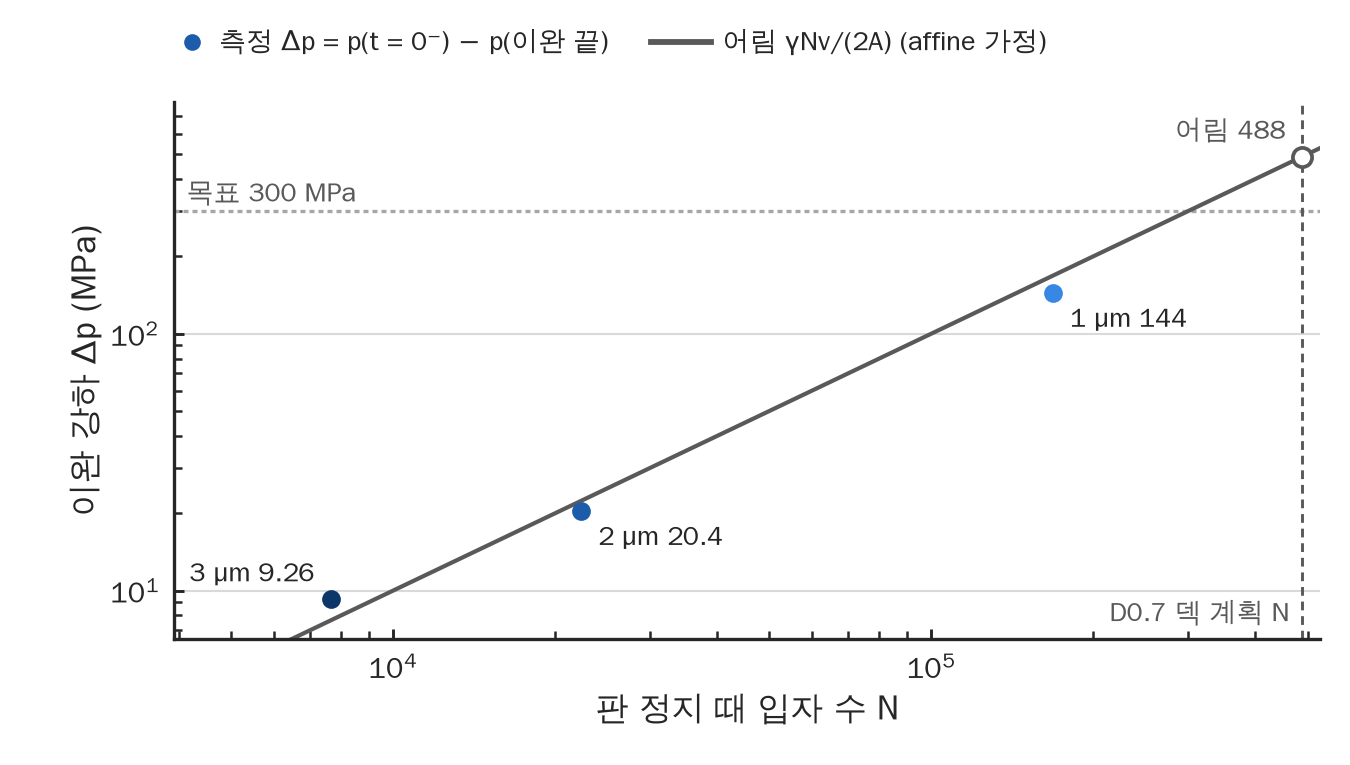
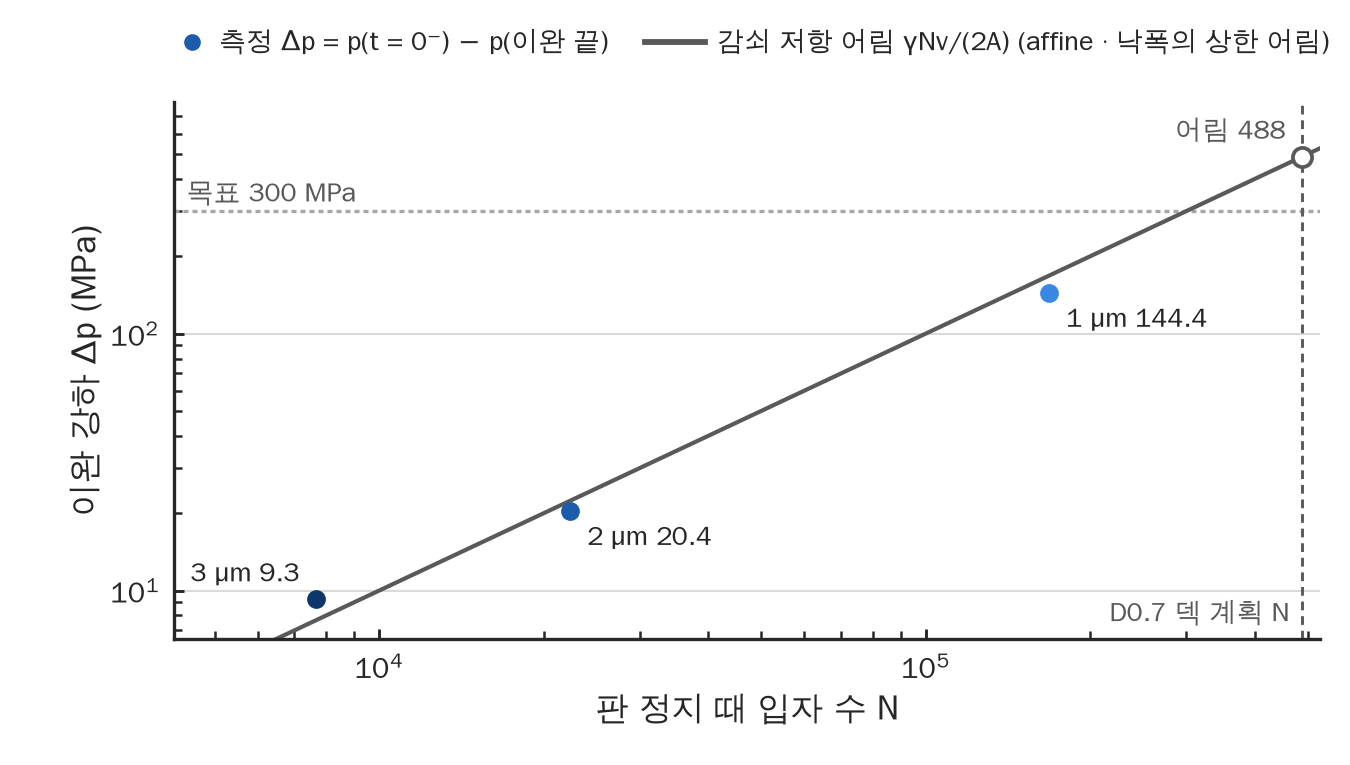
50kg Y4 draft 2: pre-attack R2 fixes — drag wording = estimate/upper bound (ledger KG50-20 · SELF-145 · KG50-04 · DEMP-01 · K50Y4-01 notes, D1 README, sheet, diag line label + one-decimal point labels), registration §1-2 prediction cited, direct-check path (compression atom dumps), D1 disclosures (Q
Claude-Session: https://claude.ai/code/session_01H191Ni4xzj9H5ftstAm7Ft

diff --git a/docs/50kg/report_y4/draft2/make_draft2_figs.py b/docs/50kg/report_y4/draft2/make_draft2_figs.py
@@ -1121,7 +1121,7 @@ def fig_p7_lit(data, meta):
 
 _NUM = r'([-+]?\d+(?:\.\d+)?(?:[eE][-+]?\d+)?)'
 _THERMO5 = re.compile(r'^\s*(\d+)\s+(\d+)\s+(\S+)\s+(\S+)\s+(\S+)\s*$')
-DIAG_EST_LABEL = '어림 γNv/(2A) (affine 가정)'
+DIAG_EST_LABEL = '감쇠 저항 어림 γNv/(2A) (affine · 낙폭의 상한 어림)'
 
 
 def _one_idx(L, pattern, what, case):
@@ -1256,7 +1256,7 @@ def fig_diag_relax_drop(data, decks, meta):
             pts[bed] = dict(n=sn['n'], dp=m['p_t0minus_MPa'] - m['p_end_MPa'], sn=sn)
     plan_beds = [b for b in R.BED_ORDER if b not in data]
     # 범위 (log10) = 점 · 점 글 · 어림 직선의 계획 점 · 목표 + 글 자리 — 고정 범위 없음
-    labs = {b: f'{b[1:]} µm {fmt_v(p["dp"], 3)}' for b, p in pts.items()}
+    labs = {b: f'{b[1:]} µm {p["dp"]:.1f}' for b, p in pts.items()}   # 본문 · 쪽 글과 같은 소수 한 자리 (사전 공격 R2-13)
     above = {b: p['dp'] > c * p['n'] for b, p in pts.items()}          # 직선 위 점 = 글 왼쪽 위 · 아래 점 = 오른쪽 아래
     x_hi, x_lo, y_hi, y_lo = [], [], [], []
     for b, p in pts.items():

diff --git a/docs/50kg/report_y4/draft2/slide_text_draft2.md b/docs/50kg/report_y4/draft2/slide_text_draft2.md
@@ -11,7 +11,7 @@
 
 | 항목 | 이 시트에서 한 것 | 쪽 |
 |---|---|---|
-| `K50Y4-02` 1.35 GPa 설명 범위 | 화면 두 줄 (물성 22 GPa 랩실 표준 / DEM 유효 입력 1.35 GPa 선행 규약) + 판정문 §4 최소 문구 그대로 (노트 · 대본 · 예상 답변) | 1 |
+| `K50Y4-02` 1.35 GPa 설명 범위 | 화면 두 줄 (물성 22 GPa 랩실 표준 / DEM 유효 입력 1.35 GPa 선행 규약) + 판정문 §4 최소 문구 그대로 (노트 · 예상 답변 · 대본은 짧은 꼴) | 1 |
 | `K50Y4-03` · `SELF-144` 선행 출처 | 선행 보고 **9쪽** (DEM 기반 복합양극 압축 모델) · "13 장" 안 씀 | 1 |
 | `K50Y4-01` 의 문구 부분 | 이완 끝을 300 MPa 상태로 부르지 않음 · 압력 도달 순간 세트 = 자료 없음 | 1 · 2 |
 | `SELF-145` 문구 | "같은 상태 비교" 안 씀 → "같은 정의 (판 고정 이완 끝) · 정적 압력은 침대마다 다름" | 1 · 2 · 6 · 7 |
@@ -21,7 +21,7 @@
 |---|---|---|
 | 1 | 첫 줄 "SE 입도를 비교하는 네 침대 — 공통 덱 규약, 입도별 시드 1" + 비교 한계 한 줄 (D1 더함) | 1쪽 ③ ① · ⑥ 대본 |
 | 2 | 가압 목표 300 MPa · 끝 상태 = 판 고정 이완 끝 · 끝 판 압력 (D1 156.2 더함) | 1쪽 ③ ② · ④ 표 · 단면 캡션 |
-| 3 | 영률 두 줄 + 판정문 §4 최소 문구 (노트 · 대본 · 예상 답변) | 1쪽 ④ 표 · ⑥ |
+| 3 | 영률 두 줄 + 판정문 §4 최소 문구 (노트 · 예상 답변 · 대본은 짧은 꼴) | 1쪽 ④ 표 · ⑥ |
 | 4 | 선행 출처 = 선행 보고 9쪽 | 1쪽 ⑥ 노트 |
 | 5 | p > 1 MPa 표시 구간 · t = 0⁻ 정지 직전 점 · ε_sphere 이름 · 로그 축 표지 · 자료 상태 | 2쪽 ④ (`p2_compaction` · `diag_relax_drop_vs_N` · 백업 `p2_relaxation`) |
 | 6 | 단면 = 2D 구 기하 합집합의 빈 영역 ↔ ε_sphere = 3D 구 부피 합 · 겹침 색 = 그리는 순서 · 벽 조각 0.068 · 0.075 %p 를 전체 겹침 오차로 넓히지 않음 | 1쪽 ④ 캡션 · ⑥ · ⑦ |
@@ -40,7 +40,7 @@
 | `KG50B-01`–`07` 원장 | 그림 · 분석 계획 · 웹앱 라벨 뒤 한 번에 (판정문 §9) · 원장 값 안 바꿈 |
 | 새 지표 | 껍질 점유 (2쪽 주) · AM 구면 캡 합집합 지도 (3쪽 주) · 전류 강조 그림 · 소산 몫 그림 (4쪽) · z 구간 전위 강하 · 소산 (6쪽) = 다음 판 |
 | D0.7 | 결과 대기 · 압축 단계 처리 = 압축 전 결정 (`KG50-20` ③) |
-| `DEMP-01` · `KG50-20` | 감쇠 저항 = 어림만 (정지 순간 입자 속도 덤프 없음) · 정적 압력을 맞춘 비교 없음 · 처리 방법 = 1저자 결정 · 등록 · Codex |
+| `DEMP-01` · `KG50-20` | 감쇠 저항 = 어림만 (정지 순간 덤프 없음 · 압축 중 50,000 step 마다의 atom 덤프 (속도 있음) 로 직접 셀 수 있으나 보관 여부 미확인) · 정적 압력을 맞춘 비교 없음 · 처리 방법 = 1저자 결정 · 등록 · Codex |
 | `KG50-04` | 질량당 감쇠 = 문구만 |
 | `SELF-145` 원장 | 문구 반영만 · open 그대로 |
 
@@ -107,7 +107,7 @@
 | 영역 · 면용량 | 50 × 50 µm 고정 영역 · 6.5 mAh/cm² |
 | SE 영률 | 물성 22 GPa (랩실 표준) |
 |  | DEM 유효 입력 1.35 GPa (선행 규약) |
-| 가압 | 목표 300 MPa → 판 고정 이완 10⁵ step · 언로딩 없음 |
+| 가압 | 목표 300 MPa → 판 고정 이완 10⁵ step · 끝 판 압력 D1 156.2 · D2 279.8 · D3 291.4 MPa · 언로딩 없음 |
 | 시드 | 입도별 1 |
 | 비교 한계 | 끝 판 압력이 침대마다 다름 — 압축 중 감쇠 저항이 판 반력에 섞임 [추정 · 2쪽] |
 
@@ -201,7 +201,7 @@
 
 `diag_relax_drop_vs_N` (새 · 붙여 넣기)
 
-> 판 고정 이완 낙폭 Δp = p(t = 0⁻, 정지 직전) − p(이완 끝) 대 입자 수 N · 점 = D1 · D2 · D3 관측 (실행 기록 정규 thermo 줄 × 1000) · 선 = affine 어림 Δp ≈ γNv/(2A) = N × 10⁻³ MPa (γ 0.5 = 압축 중 감쇠 계수 · v 0.01 = 판 속도 · A 0.0025 = 판 면적 · 덱 단위 · 입자 속도가 바닥 0 → 판 v 로 선형이라는 가정) · D0.7 표지 = 덱 계획 N 4.88 × 10⁵ 의 어림 488 MPa (측정 아님 · 가압 목표 300 MPa 위) · 관측 / 어림 = 0.86 · 0.91 · 1.21 · 감쇠 저항의 직접 측정 아님 (정지 순간 입자 속도 덤프 없음) · 판 고정 뒤 감쇠 1 × 10⁻⁵ (네 덱 같은 줄) · `DEMP-01` · `KG50-20` 열림
+> 판 고정 이완 낙폭 Δp = p(t = 0⁻, 정지 직전) − p(이완 끝) 대 입자 수 N · 점 = D1 · D2 · D3 관측 (실행 기록 정규 thermo 줄 × 1000) · 선 = 감쇠 저항 어림 γNv/(2A) = N × 10⁻³ MPa (낙폭의 상한 어림 · 예측 아님 — 판 고정 뒤 선형 탄성이면 낙폭 ≈ ⅔ × 저항 · DEMP-01 ps45 실측 0.78) (γ 0.5 = 압축 중 감쇠 계수 · v 0.01 = 판 속도 · A 0.0025 = 판 면적 · 덱 단위 · 입자 속도가 바닥 0 → 판 v 로 선형이라는 가정) · D0.7 표지 = 덱 계획 N 4.88 × 10⁵ 의 어림 488 MPa (측정 아님 · 가압 목표 300 MPa 위) · 관측 / 어림 = 0.86 · 0.91 · 1.21 · 감쇠 저항의 직접 측정 아님 (정지 순간 덤프 없음 · 압축 중 atom 덤프로 직접 셀 길은 있음 — 보관 여부 미확인) · 판 고정 뒤 감쇠 1 × 10⁻⁵ (네 덱 같은 줄) · `DEMP-01` · `KG50-20` 열림
 
 - ✓ 그림 대조 (10-31 판): 축 = 로그–로그 · 측정점 (D1 · D2 · D3) = 채운 원 · D0.7 = 세로 점선 "D0.7 덱 계획 N" + 선 위 속 빈 표지 "어림 488" (측정 아님) · 300 MPa 목표 = 가로 점선 · N = 정지 줄 원자 수 (D1 168457 · D2 22353 · D3 7666).
 
@@ -238,7 +238,7 @@
 | ε 차 (−2.22 · +0.09 %p) = 입도 효과 | 산술만 (#11) |
 | 판 고정 기공률 = "성형 후 기공률" · 실험 기공률과 직접 비교 | 언로딩 없음 · 가압 상태 · DEM 유효 E 규약 |
 | 이완 끝 = "300 MPa 상태" | 끝 판 압력 156.2 · 279.8 · 291.4 MPa |
-| "감쇠 저항이 낙폭의 원인임을 확인했다" · "감쇠 저항 = 144 MPa" | 어림 · 정지 순간 속도 없음 · `DEMP-01` open |
+| "감쇠 저항이 낙폭의 원인임을 확인했다" · "감쇠 저항 = 144 MPa" | 어림 (낙폭의 상한) · 직접 측정 전 · `DEMP-01` open |
 | D0.7 488 MPa 를 결과처럼 | 덱 계획 N 의 어림 · 압축 전 |
 | "첫 접촉부터" | p > 1 MPa 표시 구간 (#5) |
 | 끝 run 0 setup 줄 값 (161.2 · 328.9 · 582.7 MPa) | 설정 줄 · 기준 아님 |
@@ -502,7 +502,7 @@
 
 `p6_z_stress` (붙여 넣기)
 
-> Love–Weber 입자 응력 σ_VM (입자 접촉력 기반 대칭 응력 · kinetic · 벽 · couple 항 없음 · 프레임 미인증 · 이완 끝 가압 상태) · 선 = 구간 중앙값 · 띠 = 25–75 % · 벽 · 판에 닿은 입자 제외 (함수의 nowall 규칙 · 바닥 · 꼭대기 구간 AM 33–42 · SE 97–1751 개 (D1 SE 1731–1751) = D2 · D3) · 같은 도구 · 같은 규약끼리만 · 반응률 · 균열 · 용량 아님 · 끝 판 압력 D1 156 · D2 280 · D3 291 MPa (같은 압력 아님) · D0.7 = 결과 대기
+> Love–Weber 입자 응력 σ_VM (입자 접촉력 기반 대칭 응력 · kinetic · 벽 · couple 항 없음 · 프레임 미인증 · 이완 끝 가압 상태) · 선 = 구간 중앙값 · 띠 = 25–75 % · 벽 · 판에 닿은 입자 제외 (함수의 nowall 규칙 · 바닥 · 꼭대기 구간 AM 33–42 · SE 97–1751 개 (D1 SE 1731–1751) · D1 · D2 · D3) · 같은 도구 · 같은 규약끼리만 · 반응률 · 균열 · 용량 아님 · 끝 판 압력 D1 156 · D2 280 · D3 291 MPa (같은 압력 아님) · D0.7 = 결과 대기
 
 - ✓ 그림 대조 (10-31 판 · `data/<침대>/zprof_<침대>.csv`): 벽 · 판 접촉으로 뺀 입자 = 바닥 · 꼭대기 구간만 (AM 33–42 · SE 97–1751 · D1 SE 1731–1751) · 가운데 구간 0.
 
@@ -714,7 +714,7 @@
 | p > 1 MPa | 2 | RD · CX | RD §2 · CX §7 (c) | — |
 | 상자 25–75 % · 선 5–95 % | 3 · 6 | RD | §2 (p3_per_am · p6_z_stress) | — |
 | Zhou 2025 카드 (겹침 문턱 · δ / (r₁ + r₂)) | 3 | RD | §2 (p3_overlap_threshold) | — |
-| z 10 구간 · 12.2–12.6 µm · ≈ 4 × 10⁵ 점 · 0.06–0.07 %p · 구간당 AM 137–158 · 바닥 · 꼭대기 뺀 입자 AM 33–42 · SE 97–1751 | 6 | RD | §2 (p6_z_structure · p6_z_stress · 10-30 · D2 · D3) | — |
+| z 10 구간 · 12.2–12.6 µm · ≈ 4 × 10⁵ 점 · 0.06–0.07 %p · 구간당 AM 137–158 · 바닥 · 꼭대기 뺀 입자 AM 33–42 · SE 97–1751 | 6 | RD | §2 (p6_z_structure · p6_z_stress) · `data/<침대>/zprof_<침대>.csv` (10-31 · D1 · D2 · D3) | — |
 | ±2.5 배 포화 | 7 | RD | §2 (p7_summary_heat) | — |
 | 카드 6 편 | 7 | RD | 118 줄 | — |
 | 32 단면 · 80 % | 4 | SL | 90 줄 | — |
@@ -738,8 +738,8 @@
 | 항목 | 처리 |
 |---|---|
 | D2 · D3 이완 첫 출력 운동에너지 (1.02 × 10⁻³ · 1.51 × 10⁻⁴) | 원장 `KG50-20` 기록만 · 각 로그를 이 시트에서 재대조 안 함 → 2쪽 노트에만 (화면에 안 씀) |
-| p6 캡션의 구간당 점 수 · 통계 오차 · 구간당 개수 범위 | README §2 = 10-30 판 (D2 · D3) — D1 들어간 그림 CSV 로 범위 다시 적기 |
+| p6 캡션의 구간당 점 수 · 통계 오차 · 구간당 개수 범위 | ✓ 10-31 · D1 포함 zprof CSV 로 다시 적음 |
 | p2 판 압력 축 · `diag_relax_drop_vs_N` 축 · 표지 · 크기 | ✓ 10-31 판과 대조함 (선형 · 로그–로그 · 위 그림 대조 줄) |
-| p1 띠 그림의 D1 칸 · p2 ○ 표지 글 | 그림과 대조 |
+| p1 띠 그림의 D1 칸 · p2 ○ 표지 글 | ✓ 10-31 판과 대조함 (D1 단면 있음 · ○ = "이완 끝") |
 | 안 쓴 열 | percolation_pct · top_reachable_pct · am_am_cn_mean · lw_cv_pct · lw_ratio_* · am_frac_overlap_* (정의 · 쓰임이 이 시트 출처에 없거나 그림 밖) |
 | 안 쓴 값 | 첫 접촉 p > 0 와의 기공률 차 0.14–0.16 %p (D1 값 없음) · ps73 시간척도 표 · D0.7 dt 시간척도 (`KG50-04`) · AM 영률 |

diff --git a/docs/50kg/report_y4/draft2/README.md b/docs/50kg/report_y4/draft2/README.md
@@ -39,8 +39,8 @@
 
 | 그림 | 쪽 | 크기 | 자료 | 캡션에 꼭 넣을 한정어 |
 |---|---|---|---|---|
-| `p1_bed_strip` | 1 | 4.50 × 2.95 | `data/<침대>/section_*.csv` (초안 1 단면과 6 자리 반올림 안 같음) · 덱 (SE 수 · 크기비) | 끝 상태 (판 고정 이완 끝) x–z 단면 · y = 25 µm 평면 · 같은 배율 · AM 검정 · SE 노랑 · 흰 곳 = 2D 구 기하 합집합의 빈 영역 (2쪽 ε_sphere = 3D 구 부피 합과 같은 양 아님) · 겹침 색 = 그리는 순서 (물질 소유권 아님) · 회색 선 = 끝 판 · 벽 · 판에서 자름 · 아래 글 = 덱 계획 SE 수 · D_AM/D_SE · 0.7 · 1 µm 결과 대기 |
-| `p2_compaction` | 2 | 4.50 × 2.70 | `data/<침대>/curve_*.csv` (로그) · metrics | (a) **p > 1 MPa 표시 구간** (첫 접촉 아님) · ε_sphere = 1 − ΣV구 / (50 × 50 µm² × 판 높이) · 판 압력 = 로그 thermo 열 × 1000 (run 첫 setup 줄 뺌) · 점선 = 판 고정 이완 (ε 고정 · 압력만 감소) · ○ = 이완 끝 (비교 상태) · (b) 막대 = 이완 끝 ε_sphere · ◇ = 정확 합집합 (벽 밖 부피 뺌) · 가압 목표 300 MPa · 끝 판 압력 279.8 · 291.4 MPa · 언로딩 없음 · D2 ↔ D3 차 = 산술만 (정착 충전 · 시드 · 질량당 감쇠 · 실행 이력 · 끝 압력 차이 공존 → 입도 인과 아님) |
+| `p1_bed_strip` | 1 | 4.50 × 2.95 | `data/<침대>/section_*.csv` (초안 1 단면과 6 자리 반올림 안 같음) · 덱 (SE 수 · 크기비) | 끝 상태 (판 고정 이완 끝) x–z 단면 · y = 25 µm 평면 · 같은 배율 · AM 검정 · SE 노랑 · 흰 곳 = 2D 구 기하 합집합의 빈 영역 (2쪽 ε_sphere = 3D 구 부피 합과 같은 양 아님) · 겹침 색 = 그리는 순서 (물질 소유권 아님) · 회색 선 = 끝 판 · 벽 · 판에서 자름 · 아래 글 = 덱 계획 SE 수 · D_AM/D_SE · 0.7 µm 결과 대기 (D1 = 10-31 들어감) |
+| `p2_compaction` | 2 | 4.50 × 2.70 | `data/<침대>/curve_*.csv` (로그) · metrics | (a) **p > 1 MPa 표시 구간** (첫 접촉 아님) · ε_sphere = 1 − ΣV구 / (50 × 50 µm² × 판 높이) · 판 압력 = 로그 thermo 열 × 1000 (run 첫 setup 줄 뺌) · 점선 = 판 고정 이완 (ε 고정 · 압력만 감소) · ○ = 이완 끝 (비교 프레임 · 같은 정적 압력 아님 — `KG50-20`) · (b) 막대 = 이완 끝 ε_sphere · ◇ = 정확 합집합 (벽 밖 부피 뺌) · 가압 목표 300 MPa · 끝 판 압력 D1 156.2 · D2 279.8 · D3 291.4 MPa · 언로딩 없음 · D2 ↔ D3 차 = 산술만 (정착 충전 · 시드 · 질량당 감쇠 · 실행 이력 · 끝 압력 차이 공존 → 입도 인과 아님) |
 | `p2_relaxation` (보조) | 2 | 4.50 × 2.55 | `curve_*.csv` | ○ t = 0⁻ = 정지 직전 (마지막 정상 압축 출력 · PHASE 4 setup 값 아님) · 판 고정 10⁵ step · 끝 `run 0` setup 줄 (328.9 · 582.7 MPa) 안 씀 · (a) 자료 있는 침대 전부 (b) 확대 = 이완 폭 (t = 0⁻ 포함 최대 − 최소) 이 (a) 자료 폭의 ¼ 보다 작은 침대 (코드 규칙 `ZOOM_FRAC` · 침대 목록을 적지 않음 · 그런 침대가 없거나 전부면 한 칸) · 끝 값 글 = 그 침대가 그려진 칸 하나에만 |
 | `diag_relax_drop_vs_N` (진단) | — | 4.50 × 2.55 | metrics (p(t = 0⁻) · p(이완 끝) · 정지 step) · 덱 · 로그 | ● = 이완 강하 Δp = p(t = 0⁻) − p(이완 끝) ↔ 판 정지 때 입자 수 N (로그 · 로그) · N = 압축 로그 정지 줄 (PHASE 3 마지막 정규 thermo 줄의 atoms 열 · 로그가 리포에 있고 sha256 = metrics 기록일 때) — 없으면 끝 덤프 AM + SE (CSV `n_source` 에 적음) · N 은 덱 머리 줄 "예상 입자 수 … (합 N)" 의 덱 삽입 구간 안 (생성기가 대조) · 선 = **어림 γNv/(2A) (affine 가정)** — γ = 압축 중 `fix damp all viscous` (PHASE 2 · 3) · v = `press_speed` · A = `current_press` 식의 면적 · 덱 단위 압력 ÷ 나눗수 × 1000 = 보고 MPa (전부 덱 실행 줄에서 읽음) · 판 속도가 바닥 0 → 판 v 로 선형인 속도장 가정의 감쇠 저항 합 · 세로 점선 = D0.7 덱 계획 N (머리 줄 합) · 가로 점선 = 가압 목표 · 원장 DEMP-01 (열림) 의 관계 (감쇠 저항 몫 ≈ N/300,000) 를 보이는 것뿐 — 실측 감쇠 몫 · 정적 압력 · 구조 영향은 주장하지 않음 · 침대마다 시드 1 |
 | `p3_contacts` | 3 | 4.50 × 2.55 | metrics | (a) AM 1개당 AM–SE 접촉 수 (b) SE 1개당 SE–SE 접촉 수 (c) AM 피복률 = SE 접촉 면적 합 / (4πr² − AM–AM 면적) · 막대 = Hertz 계열 (LIGGGHTS 접촉 면적 c_cpl[22] = 기하 교차 원판 · 주) · ○ = Physics 합집합 cap (민감도) · 기하 면적 ≠ 전도 면적 |
@@ -56,7 +56,7 @@
 - 범례 · 설명 = 축 밖 (그림 위 한 줄) — 더 자세한 글은 슬라이드 글로.  SVG = 글자 그대로 (`font-family: Aptos, 맑은 고딕, Carlito, WenQuanYi Zen Hei, …`) → PowerPoint 에서 편집 가능.  ⚠ 이 기계에 Aptos · 맑은 고딕이 없어 **PNG 의 영문 = Carlito · 한글 = WenQuanYi Zen Hei** 로 박혀 있다 → 양식 글꼴로 보이려면 SVG 를 넣는다.
 - 색: AM (NCM) `#1A1A1A` · SE `#CDB650` (50kg 계획 덱) · 입도 = 파랑 한 색상 밝음 → 어두움 (0.7 → 3 µm · dataviz 서열 검사 통과) · Physics = 속 빈 표지.
 - 결정적 출력 — 같은 입력 · 같은 환경에서 두 번 그린 `figs/figs_meta.json` (파일별 sha256) 이 같음.
-- p5 (조건부 σ 시나리오) = 초안 1 그대로 (새 숫자 없음) — f(1)/f(3) 손익분기 2.217 대조는 D1 산출 뒤 `metrics_all.csv` 의 f_ion_hertz 두 칸으로 (지금은 D2 · D3 만).
+- p5 (조건부 σ 시나리오) = 초안 1 틀 + 쪽 글 — f(1)/f(3) = Hertz 2.40 · Physics 2.13 ↔ 손익분기 2.217 (두 규약이 선 양쪽 · D1 끝 판 압력 다름 → 판정 보류 · `slide_text_draft2.md` 5쪽).
 
 ## 3. D1 끝 세트가 오면 (한 명령)
 
@@ -71,12 +71,12 @@ python3 -P docs/50kg/report_y4/draft2/run_draft2_metrics.py add --bed D1 \
 
 - 묶음 안 접두 기본 = `kg50_d1_b50/` · 세 덤프가 같은 step 이어야 한다 (결손 · 엇갈림 = 거부) · 덱 멤버가 없으면 리포 v3 덱 (manifest `deck_sha256` 대조).
 - 묶음 · 멤버 sha256 기록 (README 표) 이 있으면 `--record <README.md>` 로 대조 (D2 · D3 는 자동).  D1 은 Codex 기준값이 없으므로 sha256 · 값만 기록한다.
-- D0.7 도 같은 명령 (`--bed D0.7`).  큰 침대 (D1 ≈ 1.7 × 10⁵ · D0.7 ≈ 4.9 × 10⁵ 입자) 는 망 단계가 길다 (D3 ≈ 1 분 · D2 ≈ 2.5 분 실측 · D1 은 더 김 — 추정).
+- D0.7 도 같은 명령 (`--bed D0.7`).  큰 침대 (D1 ≈ 1.7 × 10⁵ · D0.7 ≈ 4.9 × 10⁵ 입자) 는 망 단계가 길다 (D3 ≈ 1 분 · D2 ≈ 2.5 분 · D1 ≈ 17 분 실측 · 이 컨테이너).
 - D2 · D3 다시 만들기: 같은 명령 (`run` = 그 침대만 · `merge` = 표만 · `add` = 셋 다) — 아래 §5.
 
 ## 4. OVITO
 
-- `ovito/D2_end_4015002_um.xyz.gz` · `ovito/D3_end_4575002_um.xyz.gz` (확장 XYZ · µm · species = AM/SE · radius · id · dump_type) — 색 · 시점 · 단면 제안 = `ovito_render_spec.md`.
+- `ovito/D1_end_2785002_um.xyz.gz` · `ovito/D2_end_4015002_um.xyz.gz` · `ovito/D3_end_4575002_um.xyz.gz` (확장 XYZ · µm · species = AM/SE · radius · id · dump_type) — 색 · 시점 · 단면 제안 = `ovito_render_spec.md`.
 
 ## 5. 재현 · 검사 (10-30 · 이 작업 트리 · HEAD `12227fa3c` 위)
 

diff --git a/docs/data/kg50_d1_end_20261031/README.md b/docs/data/kg50_d1_end_20261031/README.md
@@ -13,6 +13,7 @@
[3 lines of base64/hex data omitted]
+| └ `kg50_d1_b50/log.liggghts` · `log_kg50_d1_b50_ins.out` (5,318 B · 삽입 런 화면) · `log_kg50_d1_b50_rs1028.out` (610,408 B · 10-28 재개 런 화면) | — | 묶음 안 log.liggghts = 아래 리포 로그와 같은 sha256 | 묶음 안 (멤버 7 개) |
[1 lines of base64/hex data omitted]
 
 - 세 덤프 = 같은 step 2,785,002 (파일 이름 · 머리 TIMESTEP) — 러너 `docs/50kg/report_y4/draft2/run_draft2_metrics.py add --bed D1` 이 검사 (같은 step 세트 · 덱 = manifest).
@@ -29,7 +30,7 @@
 | 이완 끝 (2,785,002) | 판 압력 156.15118 MPa · 판 높이 122.596 µm (mesh_end) |
 | ε_sphere (이완 동안 판 고정 = 같은 값) | 16.8250302 % |
 
-## 3. ⚠ 비교 상태 — 정지 판정에 감쇠 저항이 섞인다 (원장 `KG50-20` · `DEMP-01`)
+## 3. ⚠ 비교 상태 — 이완 끝 판 압력이 입도마다 다르다 (원인 = 감쇠 저항 · 추정 · 원장 `KG50-20` · `DEMP-01`)
 
 | | D1 | D2 | D3 |
 |---|---:|---:|---:|
@@ -37,10 +38,19 @@
 | 이완 끝 판 압력 (MPa) | **156.15** | 279.79 | 291.37 |
 | 낙폭 (MPa) | 144.44 | 20.45 | 9.26 |
 | 정지 때 원자 수 N | 168,457 | 22,353 | 7,666 |
-| 어림 γ·N·v/(2A) (MPa · affine 가정) | 168.5 | 22.4 | 7.7 |
+| 감쇠 저항 어림 γ·N·v/(2A) (MPa · affine 가정 · 낙폭의 상한 어림 · 예측 아님) | 168.5 | 22.4 | 7.7 |
+| Q5 등록 §1-2 예측 (10-27 · 결과 전 · ps45 평균 속도 0.54 배 가정) (MPa) | 182.4 | 24.2 | 8.32 |
 | 이완 첫 출력 운동에너지 열 | 0.0651 | 0.00102 | 0.000151 |
 
 - 어림의 상수 = 덱 그대로: 압축 단계 `fix damp all viscous 0.5` (모든 입자에 같은 γ) · `press_speed 0.01` · 판 면적 0.0025 (`current_press` 식) → 판 압력 단위 × 1000 = N × 0.001 MPa.  식 = `docs/data/ps73_damping_branch_20261007/README.md` 의 DEMP-01 어림 (몫 ≈ N / 300,000).
-- **추정 (시험 전)**: 판이 움직이는 동안 감쇠 저항 γΣv 가 판 반력에 더해져 "300 MPa 도달" 에 들어가고, 판이 멈추면 사라진다 → 세 침대는 같은 정의의 끝 세트이지만 **정적 압력이 같은 상태가 아니다**.  근거 = 입자 수 22 배 범위에서 낙폭 / N = 0.86 · 0.91 · 1.21 × 10⁻³ MPa (어림 1.0 × 10⁻³).  확인 = 정지 순간 원자 속도로 γΣv 를 직접 셀 덤프가 없다 (`K50Y4-01`).
+- **추정 (시험 전)**: 판이 움직이는 동안 감쇠 저항 γΣv 가 판 반력에 더해져 "300 MPa 도달" 에 들어가고, 판이 멈추면 사라진다 → 세 침대는 같은 정의의 끝 세트이지만 **정적 압력이 같은 상태가 아니다**.  이 꼴은 Q5 등록 §1-2 (10-27 · 비준 · 결과 전) 가 이미 예측했다 (관측 낙폭 / 등록 예측 = 0.79 · 0.85 · 1.11).  낙폭 / N = 0.86 · 0.91 · 1.21 × 10⁻³ MPa (affine 어림 1.0 × 10⁻³).
+- 어림은 상한이다 — 판 고정 뒤 1D 선형 탄성 기둥이면 낙폭 ≈ ⅔ × 저항 (DEMP-01 ps45 실측 낙폭 / 저항 = 0.78) · D3 의 1.21 = 감쇠만으로 설명 안 되는 1–1.6 MPa (미설명) · 접촉 감쇠 (hysteresis) 항은 어림 밖 (미확인).
+- 직접 확인 길 = 압축 중 atom 덤프 (50,000 step 마다 · vx vy vz 있음) 로 γΣv_z (DEMP-01 방법 · 등록 R5) — 정지 전 마지막 덤프 D1 `atom_2650000` (294.26 MPa) · D2 `atom_3900000` (297.76) · D3 `atom_4450000` (296.85) · hit · ibb 보관 여부 미확인.  정지 순간 덤프는 없다 (`K50Y4-01`).
 - 영향: D1 의 접촉 · 피복 · 수송 · 입자 응력 값 (예: AM 입자 응력 중앙값 172 MPa ↔ D2 335 · D3 355) 을 입도 효과로 읽지 않는다 · ε_sphere 도 정적 압력이 다른 상태에서 굳은 값.
 - D0.7 (덱 계획 N 488,291) → 어림 488 MPa > 목표 300 MPa → 감쇠 저항만으로 정지 판정이 날 수 있다 (추정) → 압축 본 제출 전 결정 (덱 변경 = 등록 · Codex).
+
+## 4. 공개 (사전 공격 R2-15)
+
+- D1 = Q5 등록 Q10 이탈 런 (10-28 · *"D1 = 정착 끝에서 기다림"* 대신 hit 에서 끝까지 이어 돌림 · 등록 머리 기록) — 등록은 Q5 가 (a) · (b) 불합격이면 정착 끝 뒤 진행분을 버린다고 적었다 → 1저자 10-31 결정 (지금 포맷 그대로 · 등록 개정) 으로 그 버림 규칙도 적용하지 않는다.
+- LIGGGHTS 빌드: D1 · D3 = 2026-07-25 빌드 (hit) · D2 = 2026-03-26 빌드 (ibb) — 둘 다 공개 3d5c00f (로그 머리).
+- 원자 수 보존: D1 은 이완 중 SE 5 개가 사라져 압밀 곡선의 구 부피 합이 끝 덤프 (168,452) 기준이다 (정지 때 168,457 · ε 영향 0.00085 %p · 표시 자리 아래).
